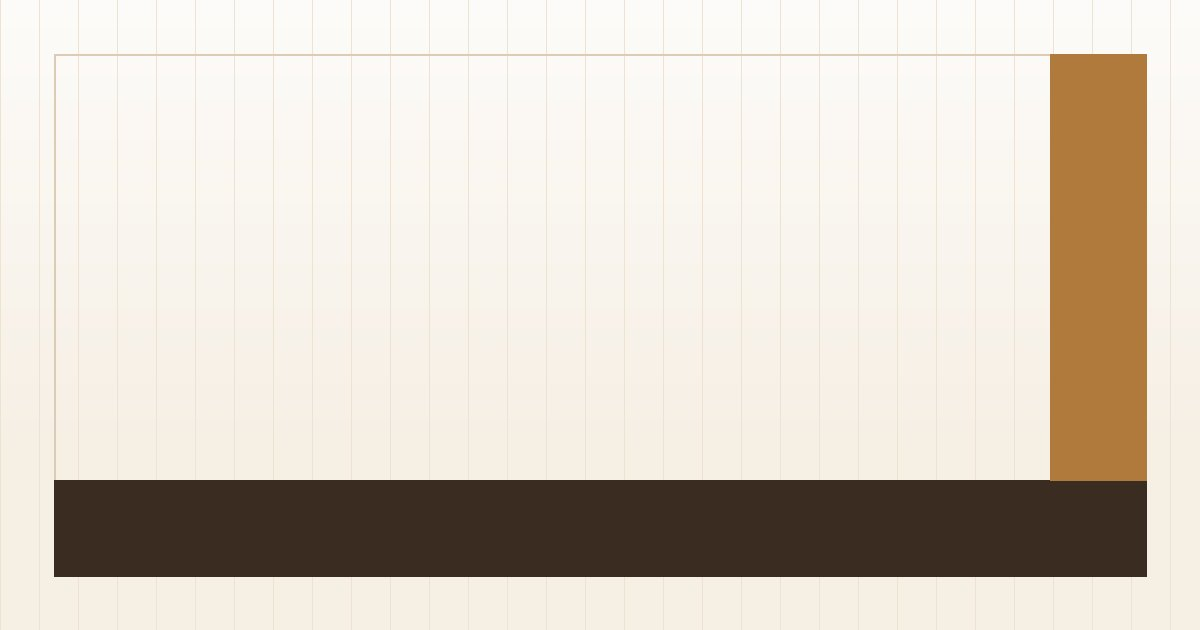
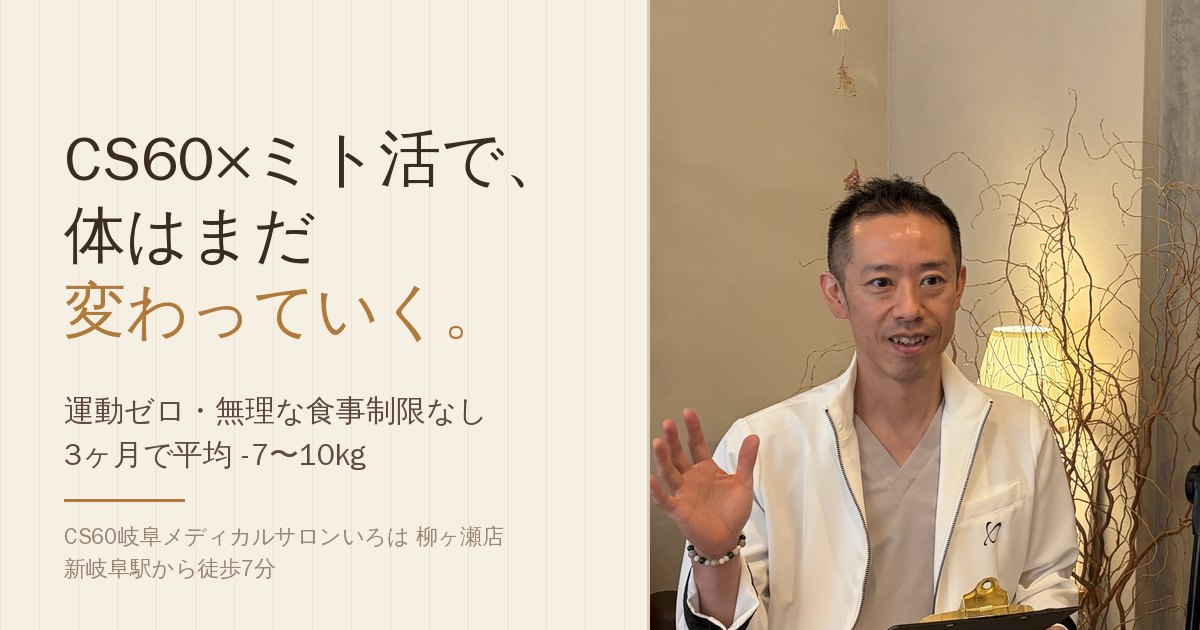
Add the three salon photos to the LP; strip GPS/EXIF and fix orientation
ユーザー提供の写真3枚（YahooJapanMail zip）を配置した。

- owner_portrait  → 「院長について」
- counseling      → 「初回カウンセリングでは何をするの？」
- owner_standing  → 追伸セクション（2段組の左）

安全面の処理:
- 3枚中2枚に GPS 座標が埋め込まれていた（iPhone 17 撮影）。そのまま公開すると
  撮影場所が誰でも取り出せるため、convert.py で EXIF を全除去。QA の EXIF 検査で
  0 件を確認済み
- convert.py は EXIF の向き情報を適用しないため、事前に exif_transpose で
  正立させてから変換した。未処理だと横倒しで公開されていた

OGP を作り直した。写真をそのまま 1200x630 に切ると顔が切れるため、左に文言・
右に写真の合成に変更。wqy-zenhei に U+2212 が無く豆腐文字になったので
該当箇所は ASCII ハイフンにしてある（HTML 側は影響なし）。

ビフォーアフター3枠は未投入のまま。prompts.md に「AI で生成してはいけない
（実績の捏造になる）」と明記済み。

検証: qa.py 全11項目 PASS / Playwright で画像3枚の読み込み成功・
未表示セクション0・横スクロールなし・JS エラーなしを確認。

Claude-Session: https://claude.ai/code/session_01KVUnLKWCf9Fj5in8K6wFkk

diff --git a/cs60-iroha/index.html b/cs60-iroha/index.html
@@ -172,7 +172,9 @@
 <section class="sec rv">
   <h2 data-t="sec.h2.7">院長について</h2>
   <div class="owner">
-    <div class="owner__fig" data-slot="owner_portrait" data-label="PORTRAIT"></div>
+    <figure class="owner__fig" data-slot="owner_portrait">
+        <img src="assets/img/owner_portrait.jpg" alt="CS60岐阜メディカルサロンいろは 院長" width="1149" height="2000" loading="lazy" decoding="async">
+      </figure>
     <div>
       <h3 data-t="sec.h3.8">CS60岐阜メディカルサロンいろは 院長</h3>
       <ul>
@@ -204,6 +206,9 @@
     <li data-t="sec.li.23">食生活のカウンセリング</li>
     <li data-t="sec.li.24">痩身美容整体（ウエストサイズ −2cm 肋骨矯正）</li>
   </ul>
+  <figure class="shot" data-slot="counseling">
+    <img src="assets/img/counseling.jpg" alt="初回カウンセリングの様子" width="1130" height="2000" loading="lazy" decoding="async">
+  </figure>
   <p class="note">1時間程度のお時間を頂戴しております。実際に施術をご体験いただいた後、不安な点はお気軽にお聞きください。無理な売り込みは一切ありませんのでご安心ください。</p>
 </section>
 
@@ -249,9 +254,16 @@
   <details><summary>予約はどうすればいいですか？</summary><p>ダイエット公式LINEから365日24時間受け付けています。ご相談だけでも構いません。</p></details>
 </section>
 
-<section class="sec rv">
-  <p class="lead">体重の数字だけを、追いかけない。</p>
-  <p>貴女が、貴女の身体で軽く動けること。<br>そこまでご一緒します。</p>
+<section class="sec sec--wide rv">
+  <div class="ps">
+    <figure class="ps__fig" data-slot="owner_standing">
+      <img src="assets/img/owner_standing.jpg" alt="サロンに立つ院長" width="1500" height="2000" loading="lazy" decoding="async">
+    </figure>
+    <div class="ps__b">
+      <p class="lead">体重の数字だけを、<br>追いかけない。</p>
+      <p>貴女が、貴女の身体で軽く動けること。<br>そこまでご一緒します。</p>
+    </div>
+  </div>
 </section>
 
 </main>

diff --git a/cs60-iroha/assets/css/style.css b/cs60-iroha/assets/css/style.css
@@ -192,3 +192,20 @@ footer .in{width:var(--w);margin-inline:auto;font-size:12px;color:var(--muted)}
 .res{max-width:880px;margin-inline:auto}
 .res__item{grid-template-columns:minmax(0,236px) 1fr}
 @media(max-width:640px){.res__item{grid-template-columns:1fr}}
+
+/* 写真スロット */
+.owner__fig{overflow:clip;padding:0;margin:0}
+.owner__fig img{width:100%;height:100%;object-fit:cover;object-position:50% 18%;border-radius:11px}
+.owner__fig::after{content:none}
+.shot{margin:0 0 22px;border:1px solid var(--line);border-radius:14px;overflow:clip;
+  background:var(--bg2);aspect-ratio:16/10}
+.shot img{width:100%;height:100%;object-fit:cover;object-position:50% 32%}
+.ps{display:grid;grid-template-columns:minmax(0,300px) 1fr;gap:38px;align-items:center}
+.ps__fig{margin:0;border:1px solid var(--line);border-radius:14px;overflow:clip;
+  background:var(--bg2);aspect-ratio:3/4}
+.ps__fig img{width:100%;height:100%;object-fit:cover;object-position:50% 22%}
+@media(max-width:720px){
+  .ps{grid-template-columns:1fr;gap:26px}
+  .ps__fig{max-width:280px}
+  .shot{aspect-ratio:4/3}
+}

diff --git a/cs60-iroha-src/prompts.md b/cs60-iroha-src/prompts.md
@@ -16,9 +16,19 @@ AIで作ってはいけません。作った場合、実績の捏造になり、
 
 | スロット | 中身 |
 | --- | --- |
-| `before_after_1` `before_after_2` `before_after_3` | お客様のビフォーアフター写真（同意取得済みのもの） |
-| `owner_portrait` | 院長のお顔写真 |
-| `shop_exterior` | 院外の写真 |
+| `before_after_1` `before_after_2` `before_after_3` | お客様のビフォーアフター写真（同意取得済みのもの）　→ **未投入** |
+| `owner_portrait` | 院長のお顔写真　→ **投入済み**（IMG_6245） |
+| `counseling` | カウンセリング風景　→ **投入済み**（IMG_5214） |
+| `owner_standing` | サロンに立つ院長　→ **投入済み**（IMG_4648） |
+| `shop_exterior` | 院外の写真　→ 未投入 |
+
+### 投入済み写真について
+- 3枚とも **EXIF を完全に除去** しました。うち2枚に GPS 座標が入っていたため、
+  そのまま公開していたら撮影場所が誰でも特定できる状態でした
+- 向きが横倒しだったものは正しい向きに補正しています
+- `counseling`（IMG_5214）には **お客様が写っています**。掲載の同意が
+  取れていない場合は、`index.html` の `<figure class="shot">` を1ブロック
+  削除すれば外せます
 
 既存LPに掲載されている写真をそのまま使えます。ファイル名を上の名前に合わせて
 `cs60-iroha-src/images/` に入れてください（例: `before_after_1.jpg`）。

diff --git a/cs60-iroha/README.md b/cs60-iroha/README.md
@@ -32,7 +32,7 @@ python scripts/watch-copy.py cs60-iroha        # 保存のたびに自動反映
 
 ## 画像を入れる
 
-いまは画像なしで完成しています（色と文字だけで成立する設計）。
+院長の写真3枚は投入済みです（EXIF・GPS除去済み）。残るはビフォーアフター3枠と院外写真です。
 
 1. `cs60-iroha-src/prompts.md` を開く
 2. **ビフォーアフター・院長の写真・院外の写真は実写のみ**（生成禁止。捏造になります）

diff --git a/cs60-iroha-src/qa-report.md b/cs60-iroha-src/qa-report.md
@@ -3,7 +3,7 @@ site: cs60-iroha
 
 - [PASS] タグ整合: index.html
 - [PASS] 参照ファイルが全部存在
-- [PASS] 総重量 0.06MB (上限 3MB)
+- [PASS] 総重量 1.12MB (上限 3MB)
 - [PASS] 外部通信は許可ホストのみ
 - [PASS] メタ: <title>
 - [PASS] メタ: description
